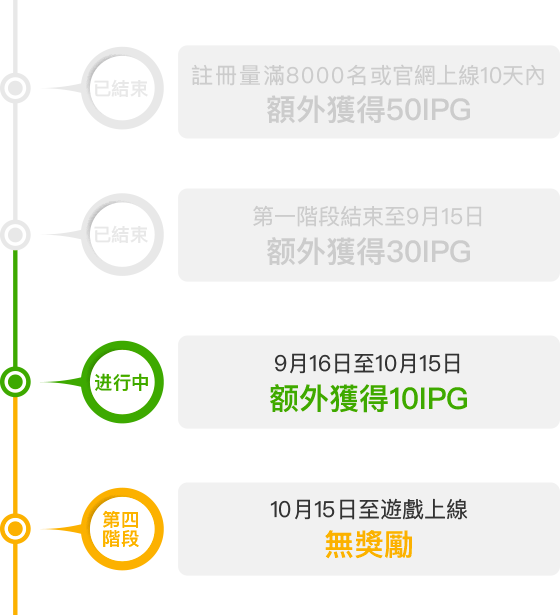
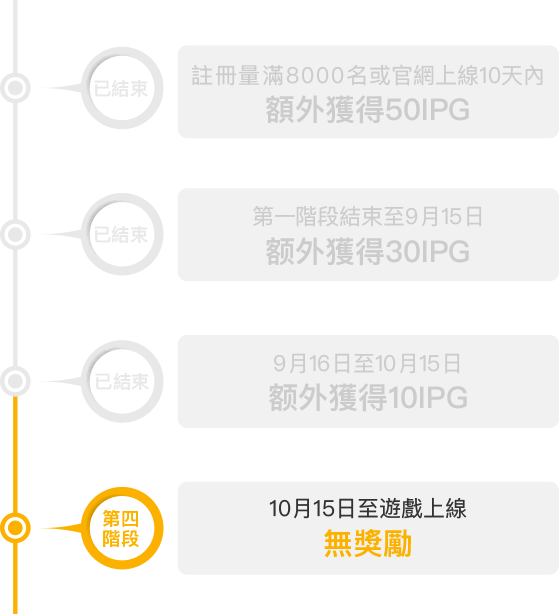
1

diff --git a/index.html b/index.html
@@ -152,11 +152,10 @@
 					<div style="text-align: center;font-size: 0.58rem;color: rgb(255,255,255);margin-top: -1rem;">游戏</div>
 					<img style="width: 8.38rem;margin-top: 0.36rem;margin-left: 0.24rem;" src="images/game4.png" />
 					<img onclick="playgame(4)" style="width: 5rem;margin-top: 0.1rem;margin: auto;" src="images/gameplay.png" />
-					
+
 					<img style="width: 8.38rem;margin-top: 0.36rem;margin-left: 0.24rem;" src="images/game15.png" />
 					<img onclick="playgame(9)" style="width: 5rem;margin-top: 0.1rem;margin: auto;" src="images/gameplay.png" />
-					
-					
+
 					<img style="width: 8.38rem;margin-top: 0.36rem;margin-left: 0.24rem;" src="images/game14.png" />
 					<img onclick="playgame(8)" style="width: 5rem;margin-top: 0.1rem;margin: auto;" src="images/gameplay.png" />
 					<img style="width: 8.38rem;margin-top: 0.36rem;margin-left: 0.24rem;" src="images/game16.png" />
@@ -173,7 +172,7 @@
 					<img onclick="playgame(6)" style="width: 5rem;margin-top: 0.1rem;margin: auto;" src="images/gameplay.png" />
 					<img style="width: 8.38rem;margin-top: 0.36rem;margin-left: 0.24rem;" src="images/game13.png" />
 					<img onclick="playgame(7)" style="width: 5rem;margin-top: 0.1rem;margin: auto;" src="images/gameplay.png" />
-					
+
 					<div style="height: 0.8rem;"></div>
 				</div>
 				<div style="width: 8.86rem;margin-left: 0.58rem;border-radius: 0.3rem;background-color: white;margin-top: 1.18rem;">
@@ -237,7 +236,7 @@
 					</div>
 					<div style="text-align: center;font-size: 0.58rem;color: rgb(255,255,255);margin-top: -1rem;">預約活動</div>
 					<img style="width: 7.35rem;margin-top: 0.7rem;margin-left: 0.71rem;" src="images/img17.png" />
-					<div style="text-align: center;width: 90%;margin-left: 5%;font-size: 0.3rem;font-weight: bold;margin-top: 0.2rem;line-height: 0.5rem;">第二阶段已经结束，额外奖励已发放，请在个人中心查收。<br />第三阶段注册正式开启。</div>
+					<div style="text-align: center;width: 90%;margin-left: 5%;font-size: 0.3rem;font-weight: bold;margin-top: 0.2rem;line-height: 0.5rem;">第三階段已經結束，額外獎勵已發放，請在個人中心查收。</div>
 					<img style="width: 7.42rem;margin-left: 0.72rem;margin-top: 0.2rem;" src="images/img24.png" />
 					<div style="width: 7.42rem;height: 7.02rem;border-radius: 0.3rem;margin-top: 0.44rem;margin-left: 0.72rem;background-color: #eaf4ea;">
 						<div style="text-align: center;padding-top: 0.67rem;font-size: 0.51rem;color: rgb(51,51,51);height: 0.45rem;font-weight: bold;">當前預約人數</div>
@@ -357,9 +356,9 @@
 				<div data-clipboard-text="gopig.io" style="position: absolute;width: 0.5rem;height: 0.5rem;margin-top: -15rem;margin-left: 5.5rem;" class="btn1"></div>
 				<div data-clipboard-text="0x6750b81427fa648db03c7a09e88e62ecc65b55d1" style="position: absolute;width: 0.5rem;height: 0.5rem;margin-top: -11.9rem;margin-left: 8.4rem;" class="btn2"></div>
 				<img style="width: 3.55rem;height: 3.55rem;position: absolute;margin-left: 3.225rem;margin-top: -10.6rem;border-radius: 0.2rem;" src="images/qun.png" />
-				<div style="position: absolute;margin-top: -6.8rem;font-size: 0.28rem;color: white;text-align: center;width: 100%;">如果無法加入請加客服微信進群</div>
+				<!--<div style="position: absolute;margin-top: -6.8rem;font-size: 0.28rem;color: white;text-align: center;width: 100%;">如果無法加入請加客服微信進群</div>-->
 				<a href="http://gopig.io/IPGWhitePaper.pdf">
-					<div style="position: absolute;margin-top: -6.3rem;font-size: 0.32rem;color: white;margin-left: 4rem;">下載白皮書</div>
+					<div style="position: absolute;margin-top: -6.6rem;font-size: 0.32rem;color: white;margin-left: 4rem;">下載白皮書</div>
 				</a>
 			</div>
 
@@ -621,6 +620,7 @@
 				'name': "pig_index"
 			}, function(data) {}, function(err) {})
 		}
+
 		function gamemaidian(game) {
 
 			req(BURIED_POINT_RECORD, {
@@ -636,42 +636,57 @@
 		function goint() {
 			window.location.href = "twoDimension.html"
 		}
-		function playgame(x){
-			switch(x){
+
+		function playgame(x) {
+			switch(x) {
 				case 1:
-					if(uid && uid != null && uid != "null"){
+					if(uid && uid != null && uid != "null") {
 						gamemaidian("GreedyWorms")
 						window.open("GreedyWorms/login.html");
-					}else{
+					} else {
 						alert("請先登錄")
-						window.location.href="zhuce.html"
+						window.location.href = "denglu.html"
 					}
 					break;
 				case 2:
+					gamemaidian("CoinMiner")
 					window.open("CoinMiner/login.html");
 					break;
 				case 3:
 					alert("此游戲請用電腦端打開")
 					break;
 				case 4:
-					window.open("IPGLab/login.html");
+					if(uid && uid != null && uid != "null") {
+						gamemaidian("IPGLab")
+						window.open("IPGLab/login.html");
+					} else {
+						alert("請先登錄")
+						window.location.href = "denglu.html"
+					}
+
 					break;
 				case 5:
+					gamemaidian("FlappyCoin")
 					window.open("FlappyCoin/index.html");
 					break;
 				case 6:
+					gamemaidian("BrickBroke")
 					window.open("BrickBroke/index.html");
 					break;
 				case 7:
+					gamemaidian("DontCut")
 					window.open("DontCut/index.html");
 					break;
 				case 8:
+					gamemaidian("PandaRun")
 					window.open("PandaRun/index.html");
 					break;
 				case 9:
+					gamemaidian("StikPanda")
 					window.open("StikPanda/index.html");
 					break;
 				case 10:
+					gamemaidian("AirBattle")
 					window.open("AirBattle/index.html");
 					break;
 			}

diff --git a/c/index.html b/c/index.html
@@ -400,7 +400,7 @@
 		<div id="ft" style="width: 90%;border-radius: 0.3rem;background-color: rgb(255,255,255);margin-left: 5%;margin-top: 1rem;">
 
 			<img style="width: 43%;margin: auto;margin-top: 0.4rem;" src="images/img32.png" />
-			<div style="text-align: center;margin-top: 0.2rem;font-size: 0.2rem;font-weight: bold;width: 90%;margin-left: 5%;">第二阶段已经结束，额外奖励已发放，请在个人中心查收。第三阶段注册正式开启。</div>
+			<div style="text-align: center;margin-top: 0.2rem;font-size: 0.2rem;font-weight: bold;width: 90%;margin-left: 5%;">第三階段已經結束，額外獎勵已發放，請在個人中心查收。</div>
 
 			<div style="display: table;margin: auto;">
 				<div style="width: 25%;margin-left: 5%;margin-top: 0.6rem;float: left;">
@@ -500,15 +500,16 @@
 				<img style="width: 20%;margin-left: 40%" src="images/zc12.png" />
 				<div style="margin-top: 0.6rem;font-size: 0.2rem;">gopig.io&nbsp;<span data-clipboard-text="gopig.io" style="" class="glyphicon glyphicon-book btn1"></span></div>
 				<div style="margin-top: 0.1rem;font-size: 0.2rem;">郵箱：info@gopig.io</div>
-				<div style="margin-top: 0.1rem;font-size: 0.2rem;">客服微信：1504997349</div>
+				<div style="margin-top: 0.1rem;font-size: 0.2rem;">買幣加微信：1504997349</div>
 				<div style="margin-top: 0.1rem;font-size: 0.2rem;">合約地址：</div>
 				<div style="margin-top: 0.1rem;font-size: 0.2rem;">0x6750b81427fa648db03c7a09e88e62ecc65b55d1 &nbsp;<span data-clipboard-text="0x6750b81427fa648db03c7a09e88e62ecc65b55d1" style="" class="btn2 glyphicon glyphicon-book"></span></div>
 				<div style="margin-top: 0.1rem;font-size: 0.2rem;">Telegram：t.me/gopig</div>
-				<div style="margin-top: 0.1rem;font-size: 0.2rem;">加入交流群（@群主進官方社群）</div>
-				<img style="float: left;margin-left: 20%;width: 10%;margin-top: 0.4rem;" src="images/qun6.png" />
-				<img style="float: left;margin-left: 5%;width: 10%;margin-top: 0.4rem;" src="images/qun7.png" />
+				<div style="margin-top: 0.1rem;font-size: 0.2rem;">加入官方微信</div>
+				<div style="height: 0.4rem;"></div>
+				<img style="width: 20%;margin: auto;" src="images/qun.png" />
+				<!--<img style="float: left;margin-left: 5%;width: 10%;margin-top: 0.4rem;" src="images/qun7.png" />
 				<img style="float: left;margin-left: 5%;width: 10%;margin-top: 0.4rem;" src="images/qun8.png" />
-				<img style="float: left;margin-left: 5%;width: 10%;margin-top: 0.4rem;" src="images/qun9.png" />
+				<img style="float: left;margin-left: 5%;width: 10%;margin-top: 0.4rem;" src="images/qun9.png" />-->
 			</div>
 			<!--<img style="width: 3.7rem;padding-top: 0.82rem;margin-left: 2.4rem;height: 4.54rem;" src="images/zc9.png" />-->
 			<!--<img style="width: 20%;margin-top: 0.36rem;margin-left: 40%;" src="images/zc10.png" />-->

diff --git a/GreedyWorms/index.html b/GreedyWorms/index.html
@@ -80,7 +80,7 @@
 							},
 							function(e) {
 								isback = true;
-								alert("IPG數量不足")
+								alert(e.msg)
 							})
 
 					}

diff --git a/GreedyWorms/login.html b/GreedyWorms/login.html
@@ -145,7 +145,7 @@
 				},
 				function(e) {
 					isback = true;
-					alert("IPG數量不足")
+					alert(e.msg)
 				})
 			
 		}

diff --git a/IPGLab/index.html b/IPGLab/index.html
@@ -158,7 +158,7 @@
 				},
 				function(e) {
 					isback = true;
-					alert("IPG數量不足")
+					alert(e.msg)
 				})
 
 		}

diff --git a/IPGLab/c2runtime.js b/IPGLab/c2runtime.js
@@ -20738,7 +20738,7 @@ cr.behaviors.custom = function(runtime) {
 
 				},
 				function(e) {
-
+					alert(e.msg)
 				})
 		}
 
